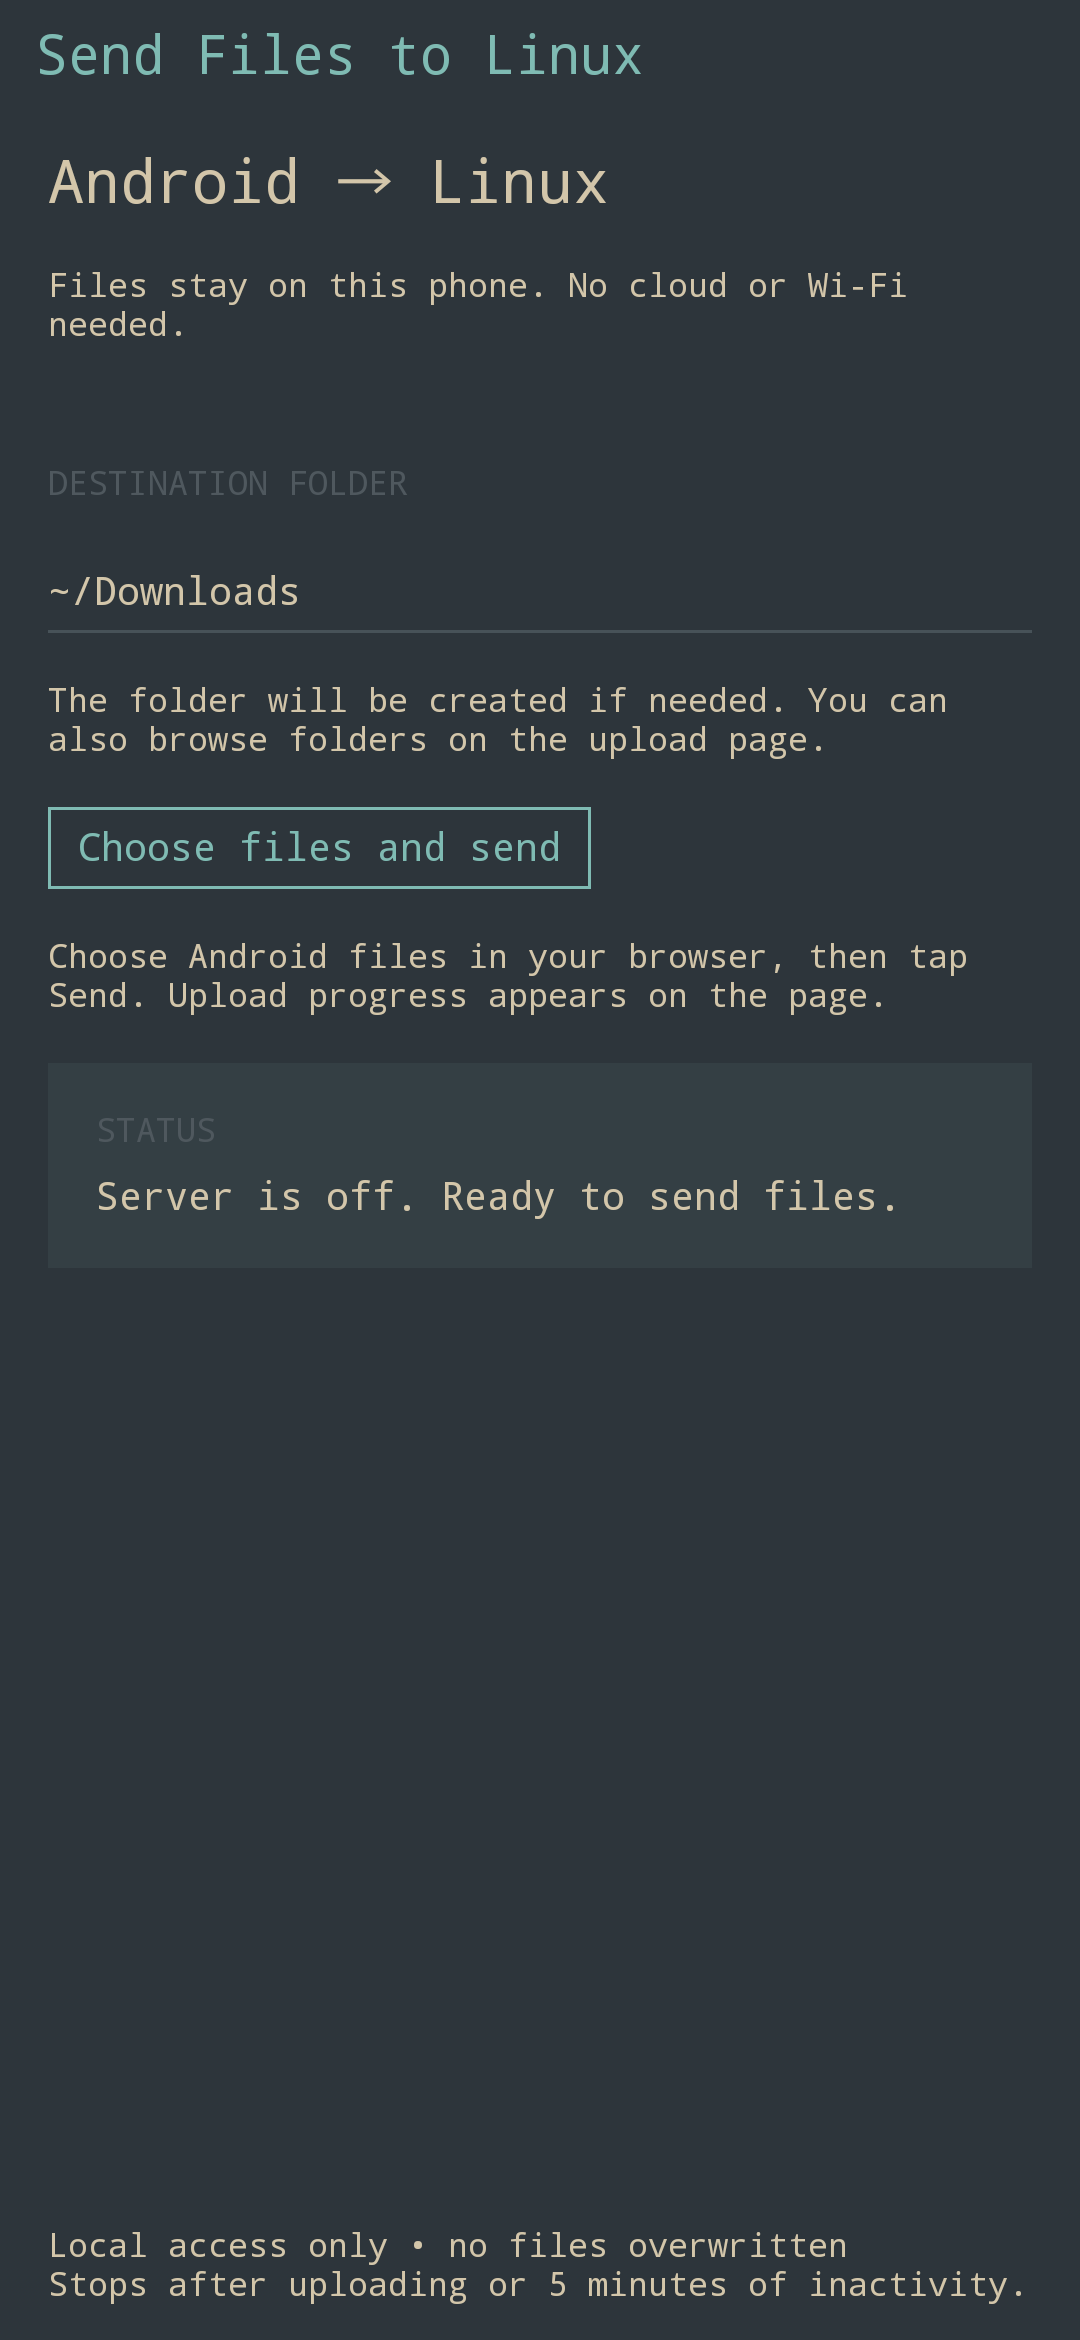
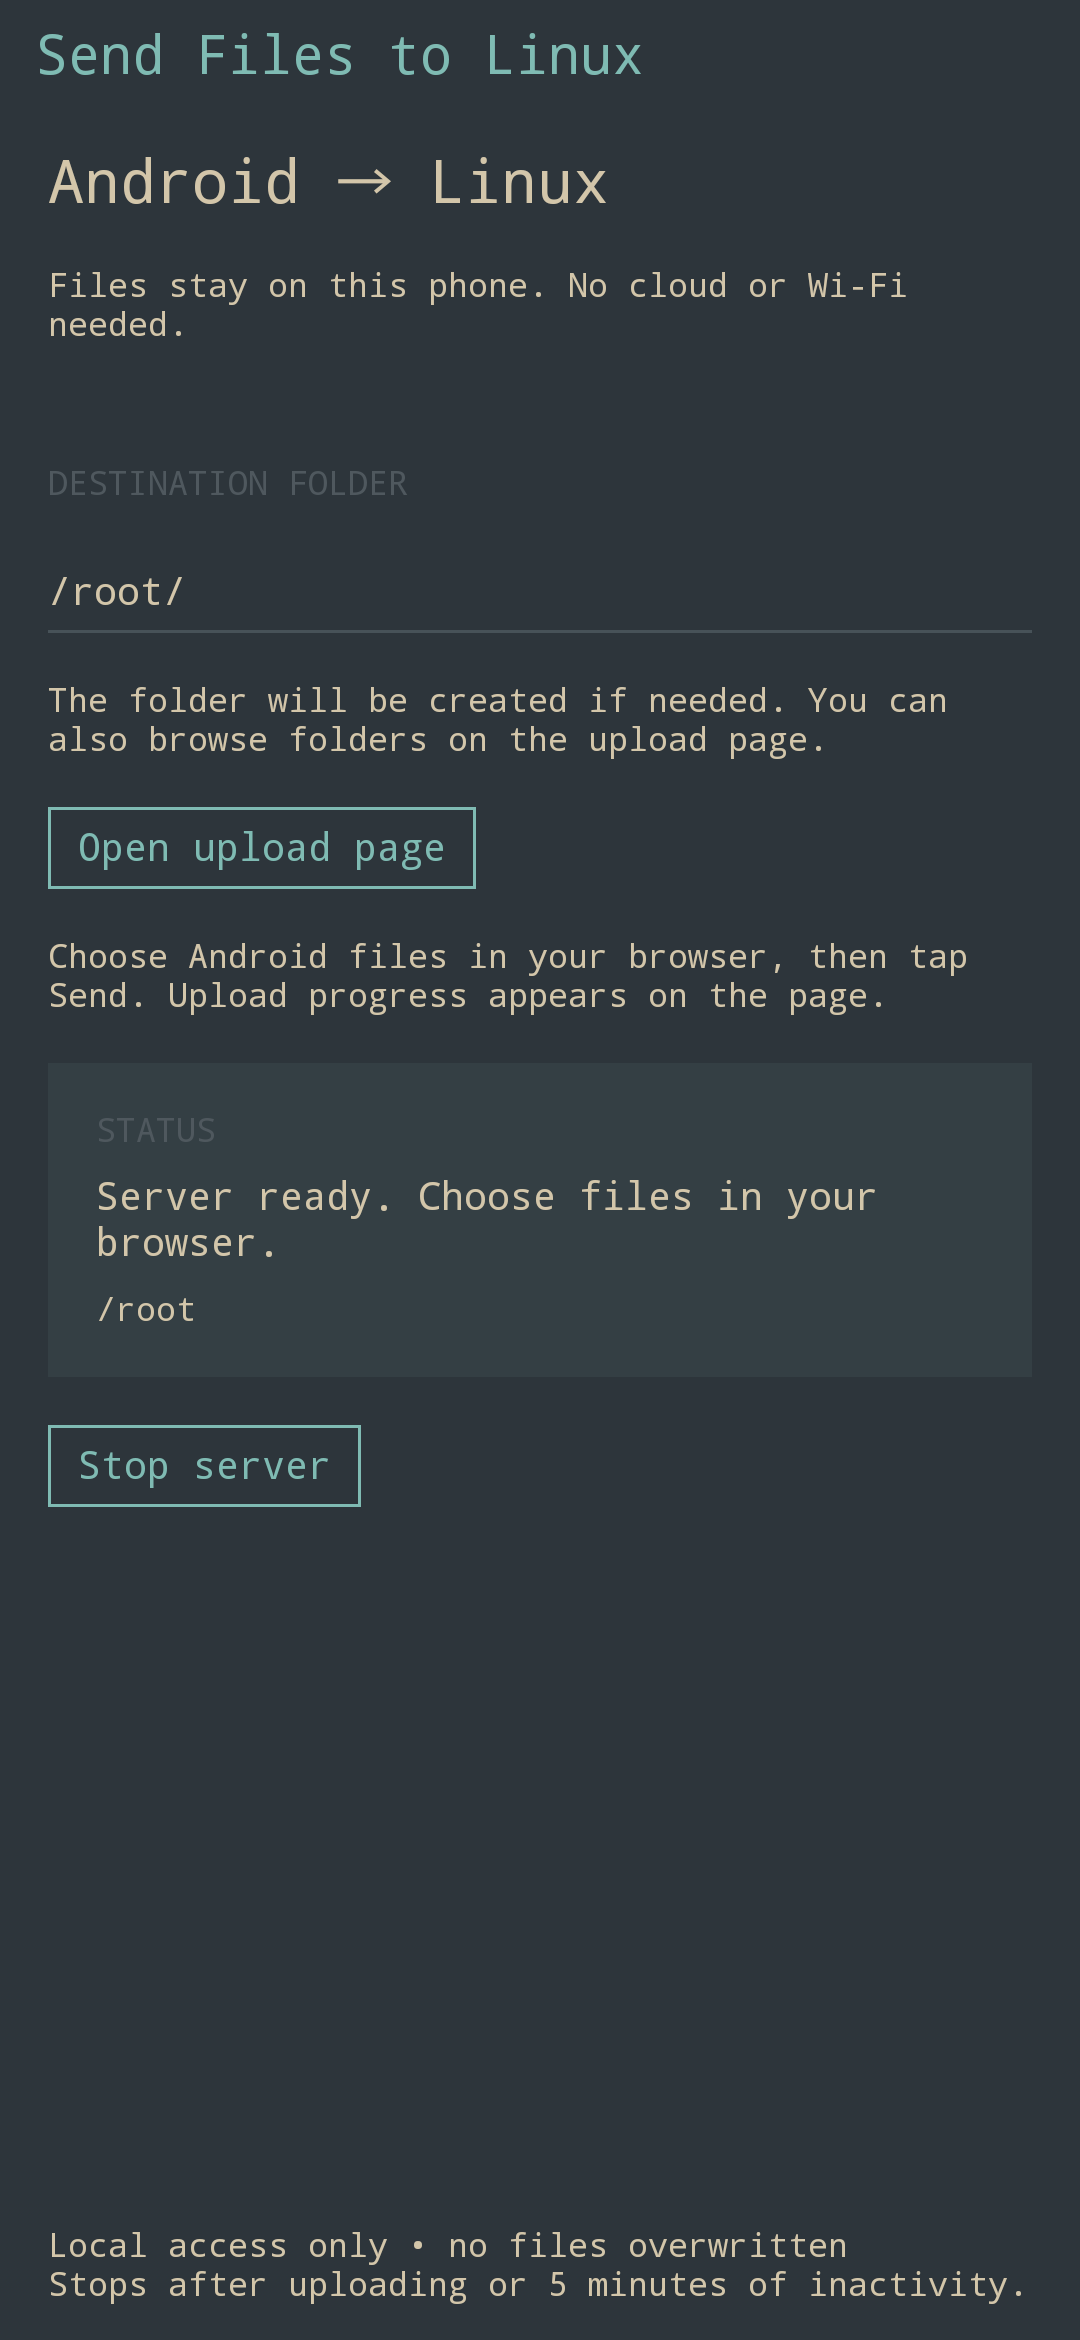
Fix Send Files startup and default to home directory (1.3)

diff --git a/apps/placq/send-files/README.md b/apps/placq/send-files/README.md
@@ -3,7 +3,7 @@
 Transfer Android files into this phone's Linux environment using the Android
 browser's file picker. Requires Python and Bash. Licensed MIT.
 
-The default destination is `~/Downloads`; choose another folder in the app or
+The default destination is the Linux home directory (`~/`); choose another folder in the app or
 browse folders on the upload page. Existing files are never overwritten: name
 collisions get a numbered suffix. No cloud service or Wi-Fi is needed.
 
@@ -11,6 +11,8 @@ collisions get a numbered suffix. No cloud service or Wi-Fi is needed.
 
 The app embeds its complete Python helper in `app.owl`. Its fixed bootstrap
 writes that reviewed source to `~/.cache/owl-send-files/server.py` and runs it.
+OWL multiline strings preserve backslashes, so the bootstrap first removes one
+layer of escaping from the embedded constant (backslashes, quotes and dollar signs).
 The review tool warns about running a widget value as code because both the
 bootstrap and helper are string constants passed through `sh()`. Neither comes
 from the network, user input, or transfer status. The destination also uses
@@ -28,3 +30,9 @@ finishes the selected batch, when stopped manually, or after five idle minutes.
 
 `preview.png` is the screen image produced by `owl-check`. The Everforest WebP
 is converted from that same image; other theme previews are not yet included.
+
+## Version 1.3
+
+- Fix startup: preserve OWL's actual multiline-string behavior when writing the helper.
+- Default to the Linux home directory instead of Downloads, with a fresh persisted folder setting.
+- Test the literal helper passed to the actual bootstrap, without pre-decoding it in the test.
